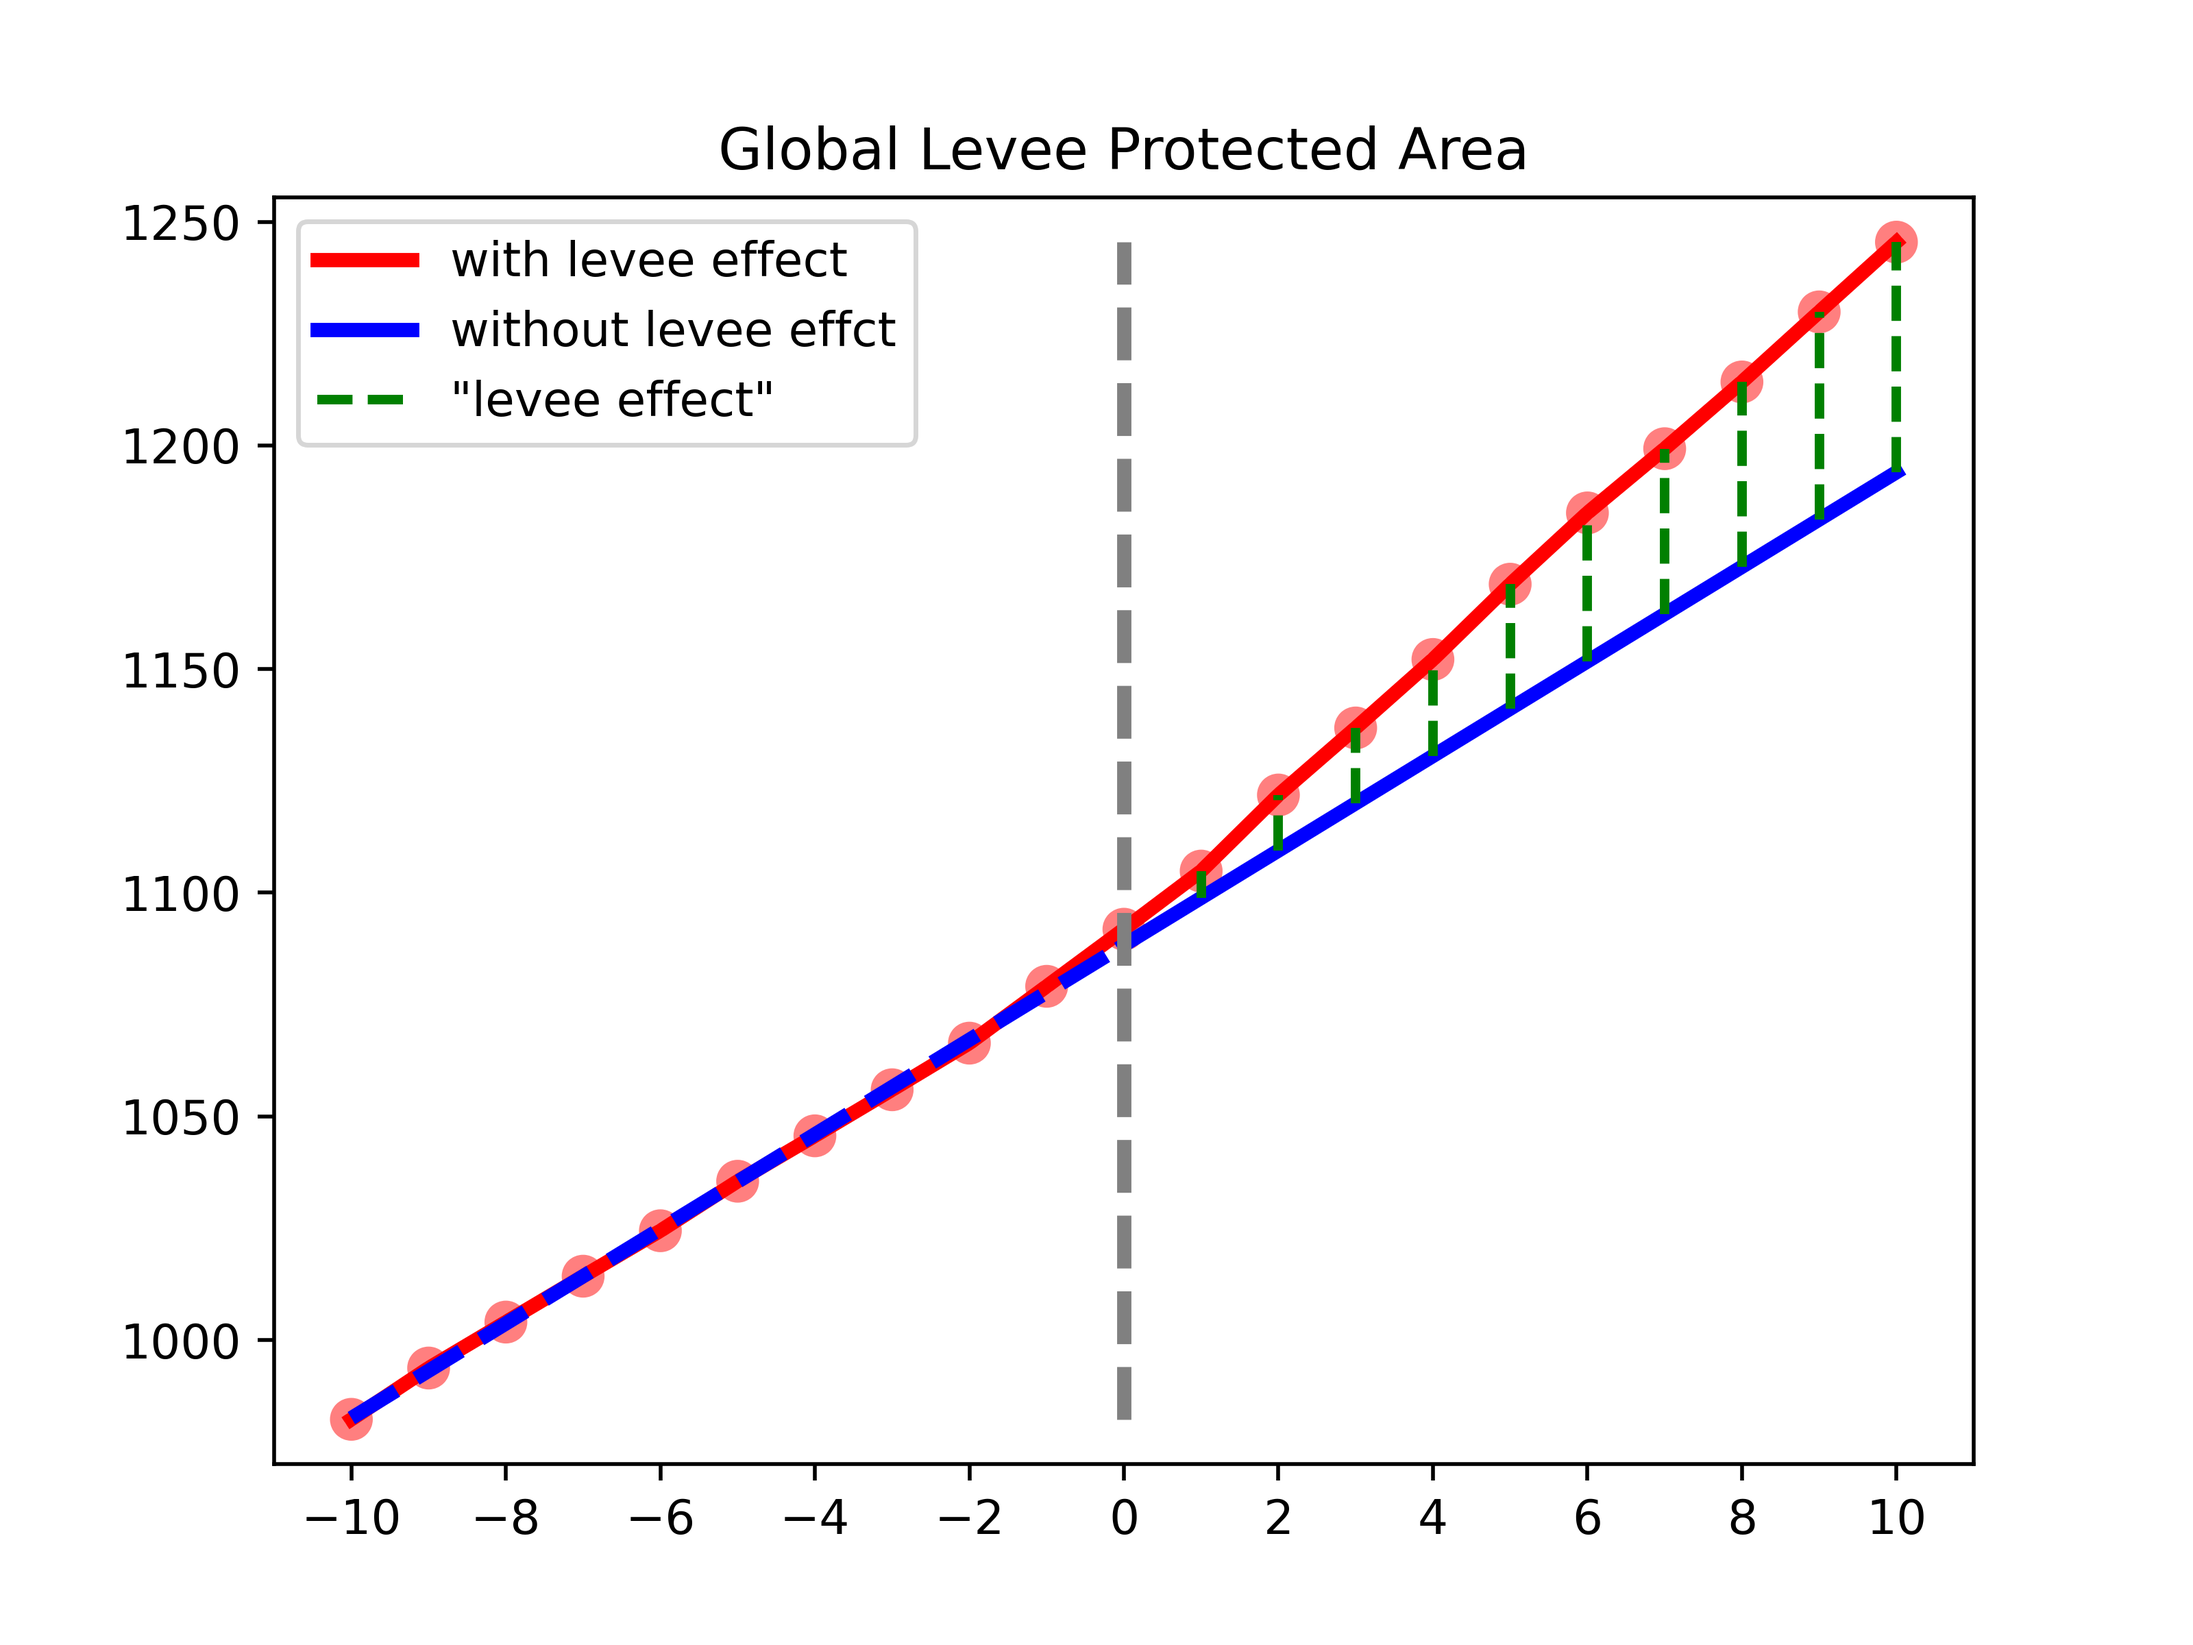
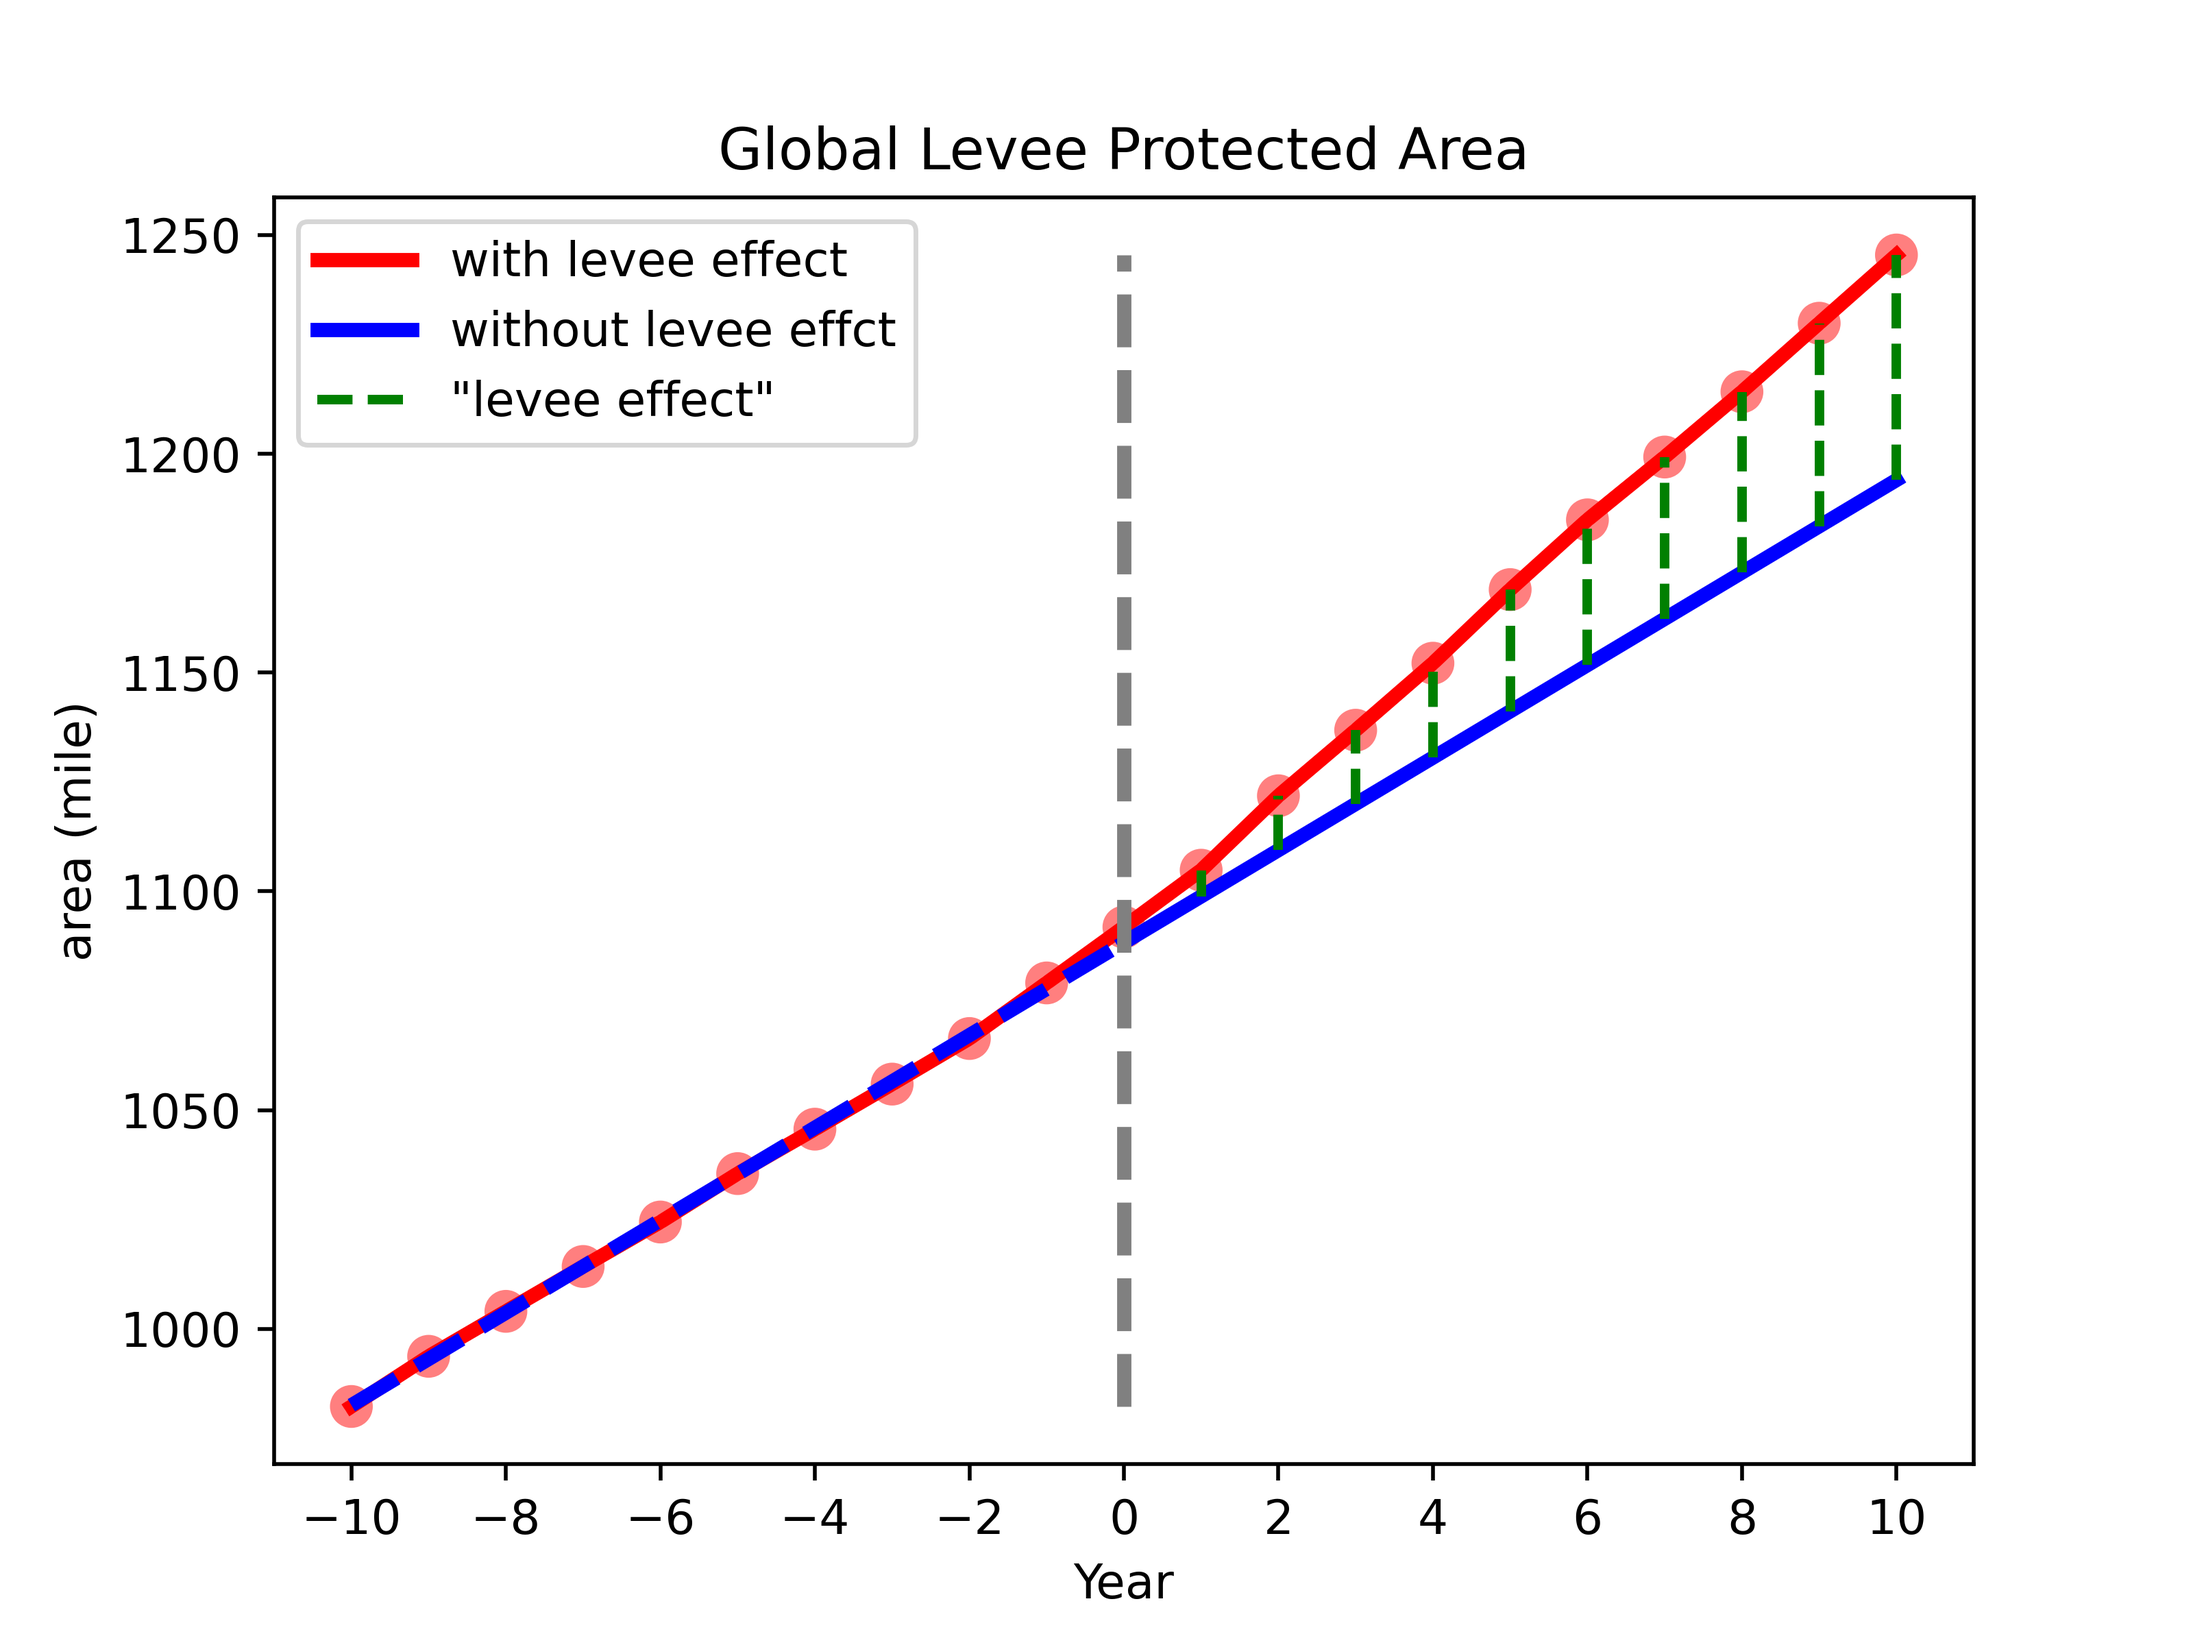
minor fix

diff --git a/plot_global_levee.py b/plot_global_levee.py
@@ -45,8 +45,6 @@ def plot_levee_effect(df_levee,name='global',title='Global Levee Protected Area'
 	plt.plot(data[data.year_diff>=0]['year_diff'], data[data.year_diff>=0]['global_sum_predict'], color='blue', linewidth=3,label='without levee effct')
 	plt.plot([0,0], [data['global_sum'].min(),data['global_sum'].max()], color='grey', linewidth=3, linestyle='dashed')
 	plt.title(title)
-	plt.xlim([data['year_diff'].min()-1, data['year_diff'].max()+1])
-	plt.ylim([data['global_sum'].min()-10, data['global_sum'].max()+10])
 
 	for i in range(1,11):
 		if i==1:
@@ -55,9 +53,12 @@ def plot_levee_effect(df_levee,name='global',title='Global Levee Protected Area'
 			plt.plot([i,i], [data['global_sum_predict'][data.year_diff==i],data['global_sum'][data.year_diff==i]], color='green', linewidth=2, linestyle='dashed')
 
 	plt.xticks(range(-10,12,2))
+	plt.xlabel("Year")
+	plt.ylabel("area (mile)")
 
 	plt.legend()
 	plt.savefig('plots/%s.png'%name,dpi=500)
+	plt.close()
 
 if __name__=='__main__':
 

diff --git a/plot_global_levee_resample.py b/plot_global_levee_resample.py
@@ -26,6 +26,7 @@ def resample():
 	plt.ylabel("# of Levees")
 
 	plt.savefig('plots/yearConst_resampled_hist.png',dpi=500)
+	plt.close()
 
 	return df.systemId.tolist()
 
